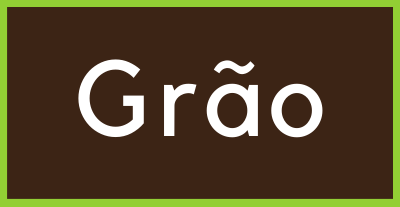
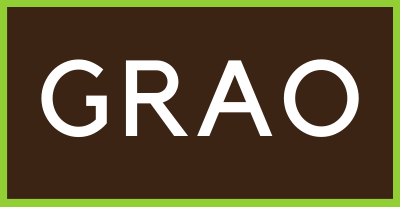
Alterações front

Changed region(s): [[0.09, 0.2609, 0.9, 0.6667]]

diff --git a/app/templates/pedidos/listarPedidos.html b/app/templates/pedidos/listarPedidos.html
@@ -1,4 +1,4 @@
-<title>Listar Pedidos Empresa</title>
+<title>Listar Pedidos | Empresa</title>
 
 {% extends "layout.html" %}
 
@@ -6,19 +6,19 @@
 <div class="container" style="height: 96%;">
         <h2 id="titulo-pags">Pedidos</h2>
 
-        <table id="dtBasicExample" class="table table-striped table-bordered table-sm" cellspacing="0" >
-
+        <table id="dtBasicExample" class="table table-striped table-bordered table-sm" cellspacing="0">
             <thead>
                 <tr>
-                    <th class="th-sm text-uppercase">Nome da Empresa</th>
-                    <th class="th-sm text-uppercase">Nome Usúario</th>
-                    <th class="th-sm text-uppercase">Número Pedido</th>
-                    <th class="th-sm text-uppercase">Data do Pedido</th>
-                    <th class="th-sm text-uppercase">Valor do Pedido</th>
-                    <th class="th-sm text-uppercase">Status de Pagamento</th>
-                    <th class="th-sm text-uppercase">Detalhes do Pedido</th>
+                    <th class="th-sm text-uppercase">Empresa</th>
+                    <th class="th-sm text-uppercase">Usúario</th>
+                    <th class="th-sm text-uppercase">Número</th>
+                    <th class="th-sm text-uppercase">Data</th>
+                    <th class="th-sm text-uppercase">Valor</th>
+                    <th class="th-sm text-uppercase">Status</th>
+                    <th class="th-sm text-uppercase">Detalhes</th>
                 </tr>
             </thead>
+
             <tbody>
                 {% for pedido in pedidoArray['items'] %}
                     <tr>

diff --git a/app/templates/layout.html b/app/templates/layout.html
@@ -13,7 +13,7 @@
         <script type="text/javascript" src="https://cdnjs.cloudflare.com/ajax/libs/jquery.mask/1.14.0/jquery.mask.js"></script>
 	    <script src="https://cdn.plot.ly/plotly-latest.min.js"></script>
 		<link rel="stylesheet" type="text/css" href="../static/css/layout.css">
-		<link rel="stylesheet" type="text/css" href="../static/css/login.css">
+		<!-- <link rel="stylesheet" type="text/css" href="../static/css/login.css"> -->
 		<meta http-equiv='cache-control' content='no-cache'>
 		<meta http-equiv='expires' content='0'>
 		<meta http-equiv='pragma' content='no-cache'>
@@ -38,7 +38,7 @@
 				</button>
 
 				<div class="collapse navbar-collapse" id="navbarSupportedContent">
-					<ul class="navbar-nav me-auto mb-2 mb-lg-0">
+					<ul class="navbar-nav me-auto mt-1 mb-lg-0">
 						<li class="nav-item active">
 							<a class="nav-link" href="/inicio">
 								Início
@@ -94,9 +94,9 @@
 							</a>
 							<div class="dropdown-menu" aria-labelledby="navbarDropdown">
 								<a class="dropdown-item" href="/gerenciarPedidos/1">Gerenciar Pedidos</a>
-								<a class="dropdown-item" href="/graficoPedidos/">Graficos Pedidos
+								<a class="dropdown-item" href="/graficoPedidos/">Graficos Pedidos</a>
 							</div>
-							</a>
+						</li>
 					</ul>
 				</div>
 

diff --git a/app/templates/pedidos/gerenciarpedidos.html b/app/templates/pedidos/gerenciarpedidos.html
@@ -18,17 +18,17 @@
       </div>
     </div>
   </form>
-    <table id="dtBasicExample" class="table table-striped table-bordered table-sm" cellspacing="0">''
+    <table id="dtBasicExample" class="table table-striped table-bordered table-sm" cellspacing="0">
       <thead>
         <tr>
-          <th class="th-sm text-uppercase">Nome da Empresa</th>
-          <th class="th-sm text-uppercase">Nome Usúario</th>
-          <th class="th-sm text-uppercase">Número Pedido</th>
-          <th class="th-sm text-uppercase">Data do Pedido</th>
-          <th class="th-sm text-uppercase">Valor do Pedido</th>
-          <th class="th-sm text-uppercase">Status de Pagamento</th>
-          <th class="th-sm text-uppercase">Editar Pedido</th>
-          <th class="th-sm text-uppercase">Detalhes do Pedido</th>
+          <th class="th-sm text-uppercase">Empresa</th>
+          <th class="th-sm text-uppercase">Usúario</th>
+          <th class="th-sm text-uppercase">Número</th>
+          <th class="th-sm text-uppercase">Data</th>
+          <th class="th-sm text-uppercase">Valor</th>
+          <th class="th-sm text-uppercase">Status</th>
+          <th class="th-sm text-uppercase">Editar</th>
+          <th class="th-sm text-uppercase">Detalhes</th>
         </tr>
       </thead>
       <tbody>

diff --git a/app/templates/pedidos/selecionarProdutos.html b/app/templates/pedidos/selecionarProdutos.html
@@ -6,10 +6,10 @@
 	<div class="container" style="height: 96%;">
 		<h2 id="titulo-pags">Selecionar Produtos</h2>
 
-		<table id="dtBasicExample"class="table table-striped table-bordered table-sm" cellspacing="0" >
+		<table id="dtBasicExample"class="table table-striped table-bordered table-sm" cellspacing="0">
 			<thead>
 				<tr>
-					<th nowrap="true" class="th-sm text-uppercase">Nome do Produto</th>
+					<th nowrap="true" class="th-sm text-uppercase">Produto</th>
 					<th nowrap="true" class="th-sm text-uppercase">Valor KG</th>
 					<th nowrap="true" class="th-sm text-uppercase">KG Disponiveis</th>
 					<th nowrap="true" class="th-sm text-uppercase">Selecionar KG</th>
@@ -46,13 +46,13 @@
 				{% endfor %}
 			</tbody>
 		</table>
-		<div class="container  d-flex justify-content-center">
+		<div class="container d-flex justify-content-center">
 			<div class="row col-md-10">
-				<h3> TOTAL: </h3>
-				<h3 id="somaProduto" type="number"> 0.00</h3>
+				<h3>TOTAL </h3>
+				<h3 id="somaProduto" type="number"> : 0.00</h3>
 			</div>
 			<div>
-				<button class="btn btn-info" role="button" onclick="enviarPedido()">
+				<button class="btn btn-secondary" role="button" id="botoes" onclick="enviarPedido()">
 					Finalizar Pedido
 				</button>
 	

diff --git a/app/templates/usuario/listarUsuarios.html b/app/templates/usuario/listarUsuarios.html
@@ -9,7 +9,7 @@
 		<table id="dtBasicExample" class="table table-striped table-bordered table-sm" cellspacing="0" >
 			<thead>
 				<tr>
-					<th nowrap="true" class="th-sm text-uppercase">Nome</th>
+					<th nowrap="true" class="th-sm text-uppercase">Usuário</th>
 					<th nowrap="true" class="th-sm text-uppercase">Cpf</th>
 					<th nowrap="true" class="th-sm text-uppercase">Email</th>
 					<th nowrap="true" class="th-sm text-uppercase">Endereço</th>
@@ -27,13 +27,13 @@
 					<tr>
 						<td>{{usuario.nome}}</td>
 						<td nowrap="true">
-							<input style="border:none" type="text" class="cpf" name="cnpj" value="{{usuario.cpf}} "disabled="true" >
+							<input style="border: none; color: #000;" type="text" class="cpf text-center" name="cnpj" value="{{usuario.cpf}} "disabled="true" >
 						</td>	
 						<td>{{usuario.email}}</td>
 						<td>{{usuario.endereco}}</td>
 						<td>{{usuario.cidade}}</td>
 						<td>{{usuario.estado}}</td>
-						<td>{{usuario.cep}}</td>
+						<td nowrap="true">{{usuario.cep}}</td>
 						<td>{{usuario.tipoUsuario}}</td>
 						<td>
 							<a href="/editarUsuario/{{usuario.id}}" class="btn btn-primary" role="button" id="botoes">

diff --git a/app/templates/usuario/cadastroUsuario.html b/app/templates/usuario/cadastroUsuario.html
@@ -71,7 +71,7 @@
 			</div>
 			<div class="form-group col-md-2">
 				<label for="inputCEP">CEP</label>
-				<input type="text"  id="cep" name="cep" class="form-control">
+				<input type="text" id="cep" name="cep" class="form-control">
 			</div>
 			<div class="form-group col-md-4">
 				<label for="inputTipo">Tipo de Usuário</label>
@@ -93,8 +93,8 @@
 			</div>
 		</div>
 
-		<a href="/listarUsuarios" class="btn btn-secondary" role="button">Cancelar</a>
-		<button type="submit" class="btn btn-success">Inserir</button>
+		<a href="/listarUsuarios" class="btn btn-warning text-white" role="button" id="botoes">Cancelar</a>
+        <button type="submit" class="btn btn-success" id="botoes">Inserir</button>
 	</form>
 </div>
 

diff --git a/app/templates/produtos/listarProdutos.html b/app/templates/produtos/listarProdutos.html
@@ -8,10 +8,10 @@
 
 		<h2 id="titulo-pags">Produtos Cadastrados</h2>
 
-		<table id="dtBasicExample" class="table table-striped table-bordered table-sm" cellspacing="0" >
+		<table id="dtBasicExample" class="table table-striped table-bordered table-sm" cellspacing="0">
 			<thead>
 				<tr>
-					<th nowrap="true" class="th-sm text-uppercase">Nome do Produto</th>
+					<th nowrap="true" class="th-sm text-uppercase">Produto</th>
 					<th nowrap="true" class="th-sm text-uppercase">Valor KG</th>
 					<th nowrap="true" class="th-sm text-uppercase">KG</th>
 					<th nowrap="true" class="th-sm text-uppercase">Editar</th>

diff --git a/app/templates/login/login.html b/app/templates/login/login.html
@@ -9,7 +9,7 @@
         <script src="https://cdn.jsdelivr.net/npm/@popperjs/core@2.9.2/dist/umd/popper.min.js"></script>
         <script src="https://cdn.jsdelivr.net/npm/bootstrap@5.0.1/dist/js/bootstrap.min.js"></script>
         <link rel="stylesheet" type="text/css" href="../static/css/login.css">
-        <title>Login | GRÃO</title>
+        <title>Login | GRAO</title>
     </head>
 
     <body>

diff --git a/app/templates/empresa/cadastroEmpresa.html b/app/templates/empresa/cadastroEmpresa.html
@@ -67,8 +67,8 @@
 			</div>
 		</div>
 
-		<a href="/listarEmpresa" class="btn btn-secondary" role="button">Cancelar</a>
-		<button type="submit" class="btn btn-success">Inserir</button>
+		<a href="/listarEmpresa" class="btn btn-warning text-white" role="button" id="botoes">Cancelar</a>
+        <button type="submit" class="btn btn-success" id="botoes">Inserir</button>
 	</form>
 </div>
 

diff --git a/app/templates/pedidos/editarPedido.html b/app/templates/pedidos/editarPedido.html
@@ -78,7 +78,7 @@
 
 			<a href="/gerenciarPedidos/1" class="btn btn-warning text-white" role="button" id="botoes">Cancelar</a>
 			{% if not pedido['statusPagamento'] == "Cancelado" %}
-				<button type="submit" class="btn btn-primary" id="botoes">Editar</button>
+				<button type="submit" class="btn btn-primary" id="botoes">Salvar</button>
 			{% endif %}
 		</form>
 	</div>

diff --git a/app/templates/pedidos/detalhesPedido.html b/app/templates/pedidos/detalhesPedido.html
@@ -42,11 +42,11 @@
 		</tbody>
 	</table>
 	<div>
-		<div>		
+		<div>
 		<h3>TOTAL: {{itensPedido.ValorTotalPedido}}</h3>
 
 		</div>
-		<a href="/gerenciarPedidos/1" class="btn btn-secondary" role="button">Voltar</a>
+		<a href="/gerenciarPedidos/1" class="btn btn-secondary" role="button" id="botoes">Voltar</a>
 		
 
 	</div>

diff --git a/app/templates/pedidos/detalhesPedidoAdm.html b/app/templates/pedidos/detalhesPedidoAdm.html
@@ -85,7 +85,9 @@
 				{% endfor %}
 			</textarea>
 		</form>
-		<a href="/gerenciarPedidos/1" class="btn btn-secondary" role="button">Voltar</a>
+		<div class="container">
+			<a href="/gerenciarPedidos/1" class="btn btn-secondary" role="button" id="botoes">Voltar</a>
+		</div>
 	</div>
 
 	<script>
